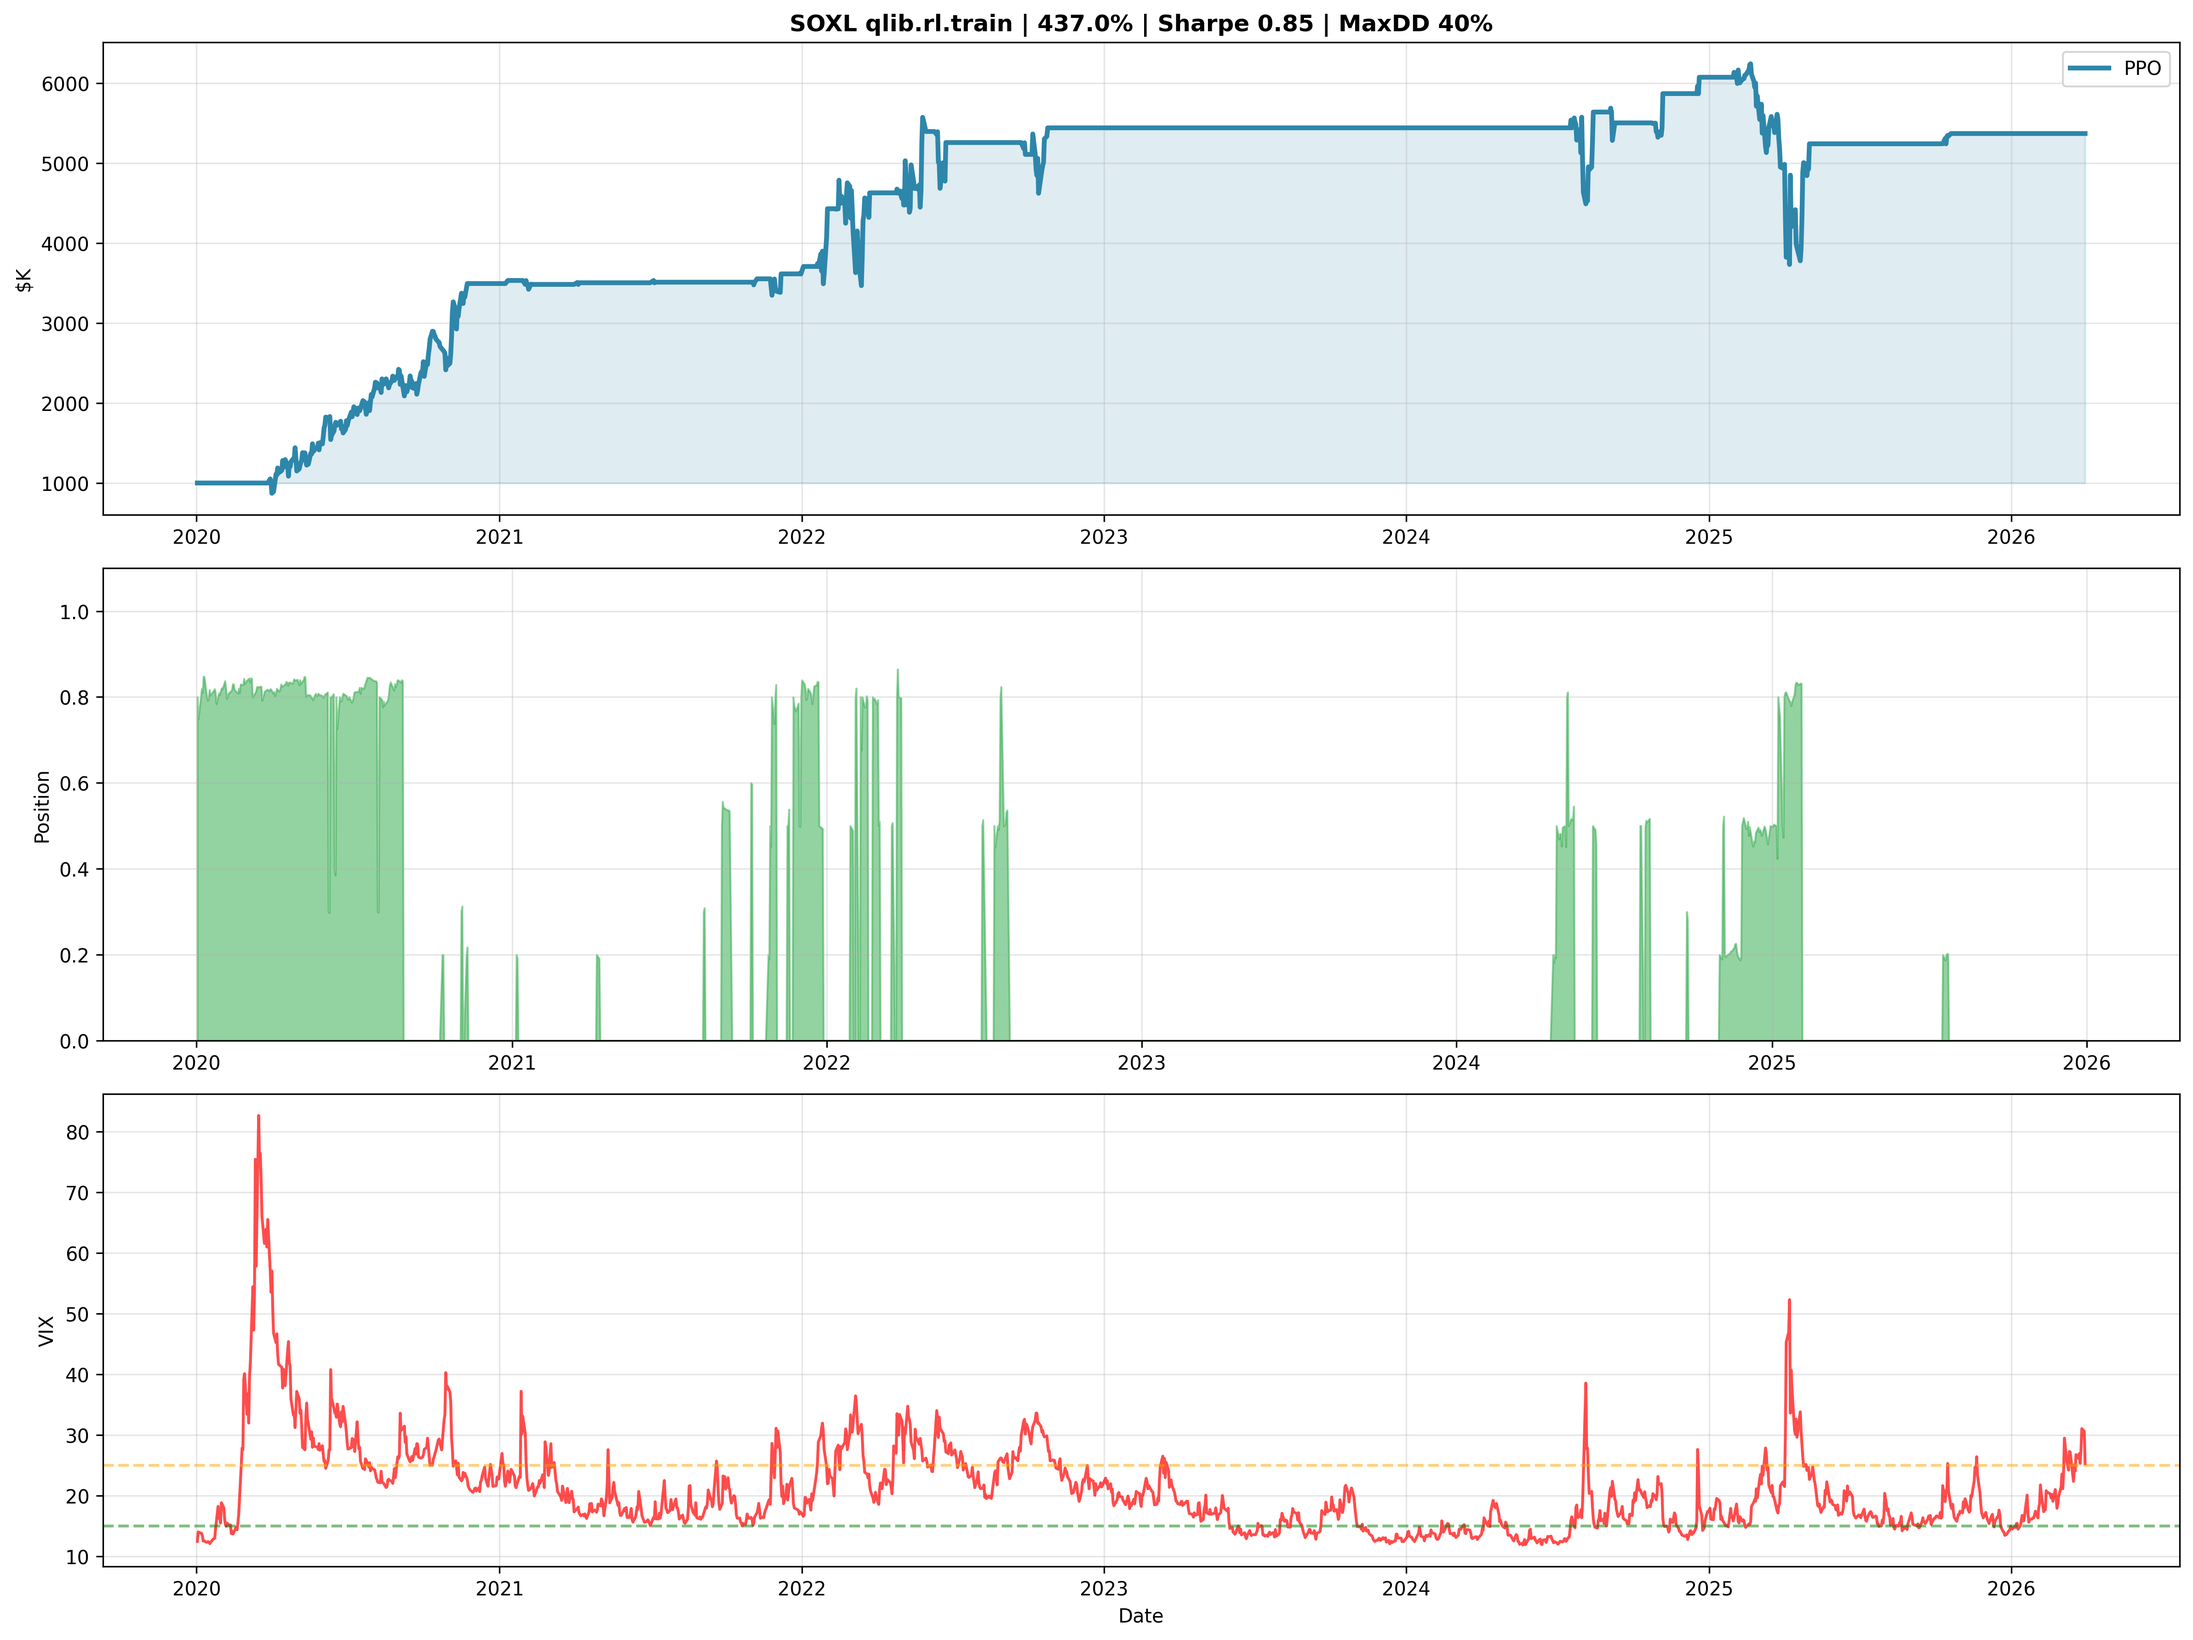
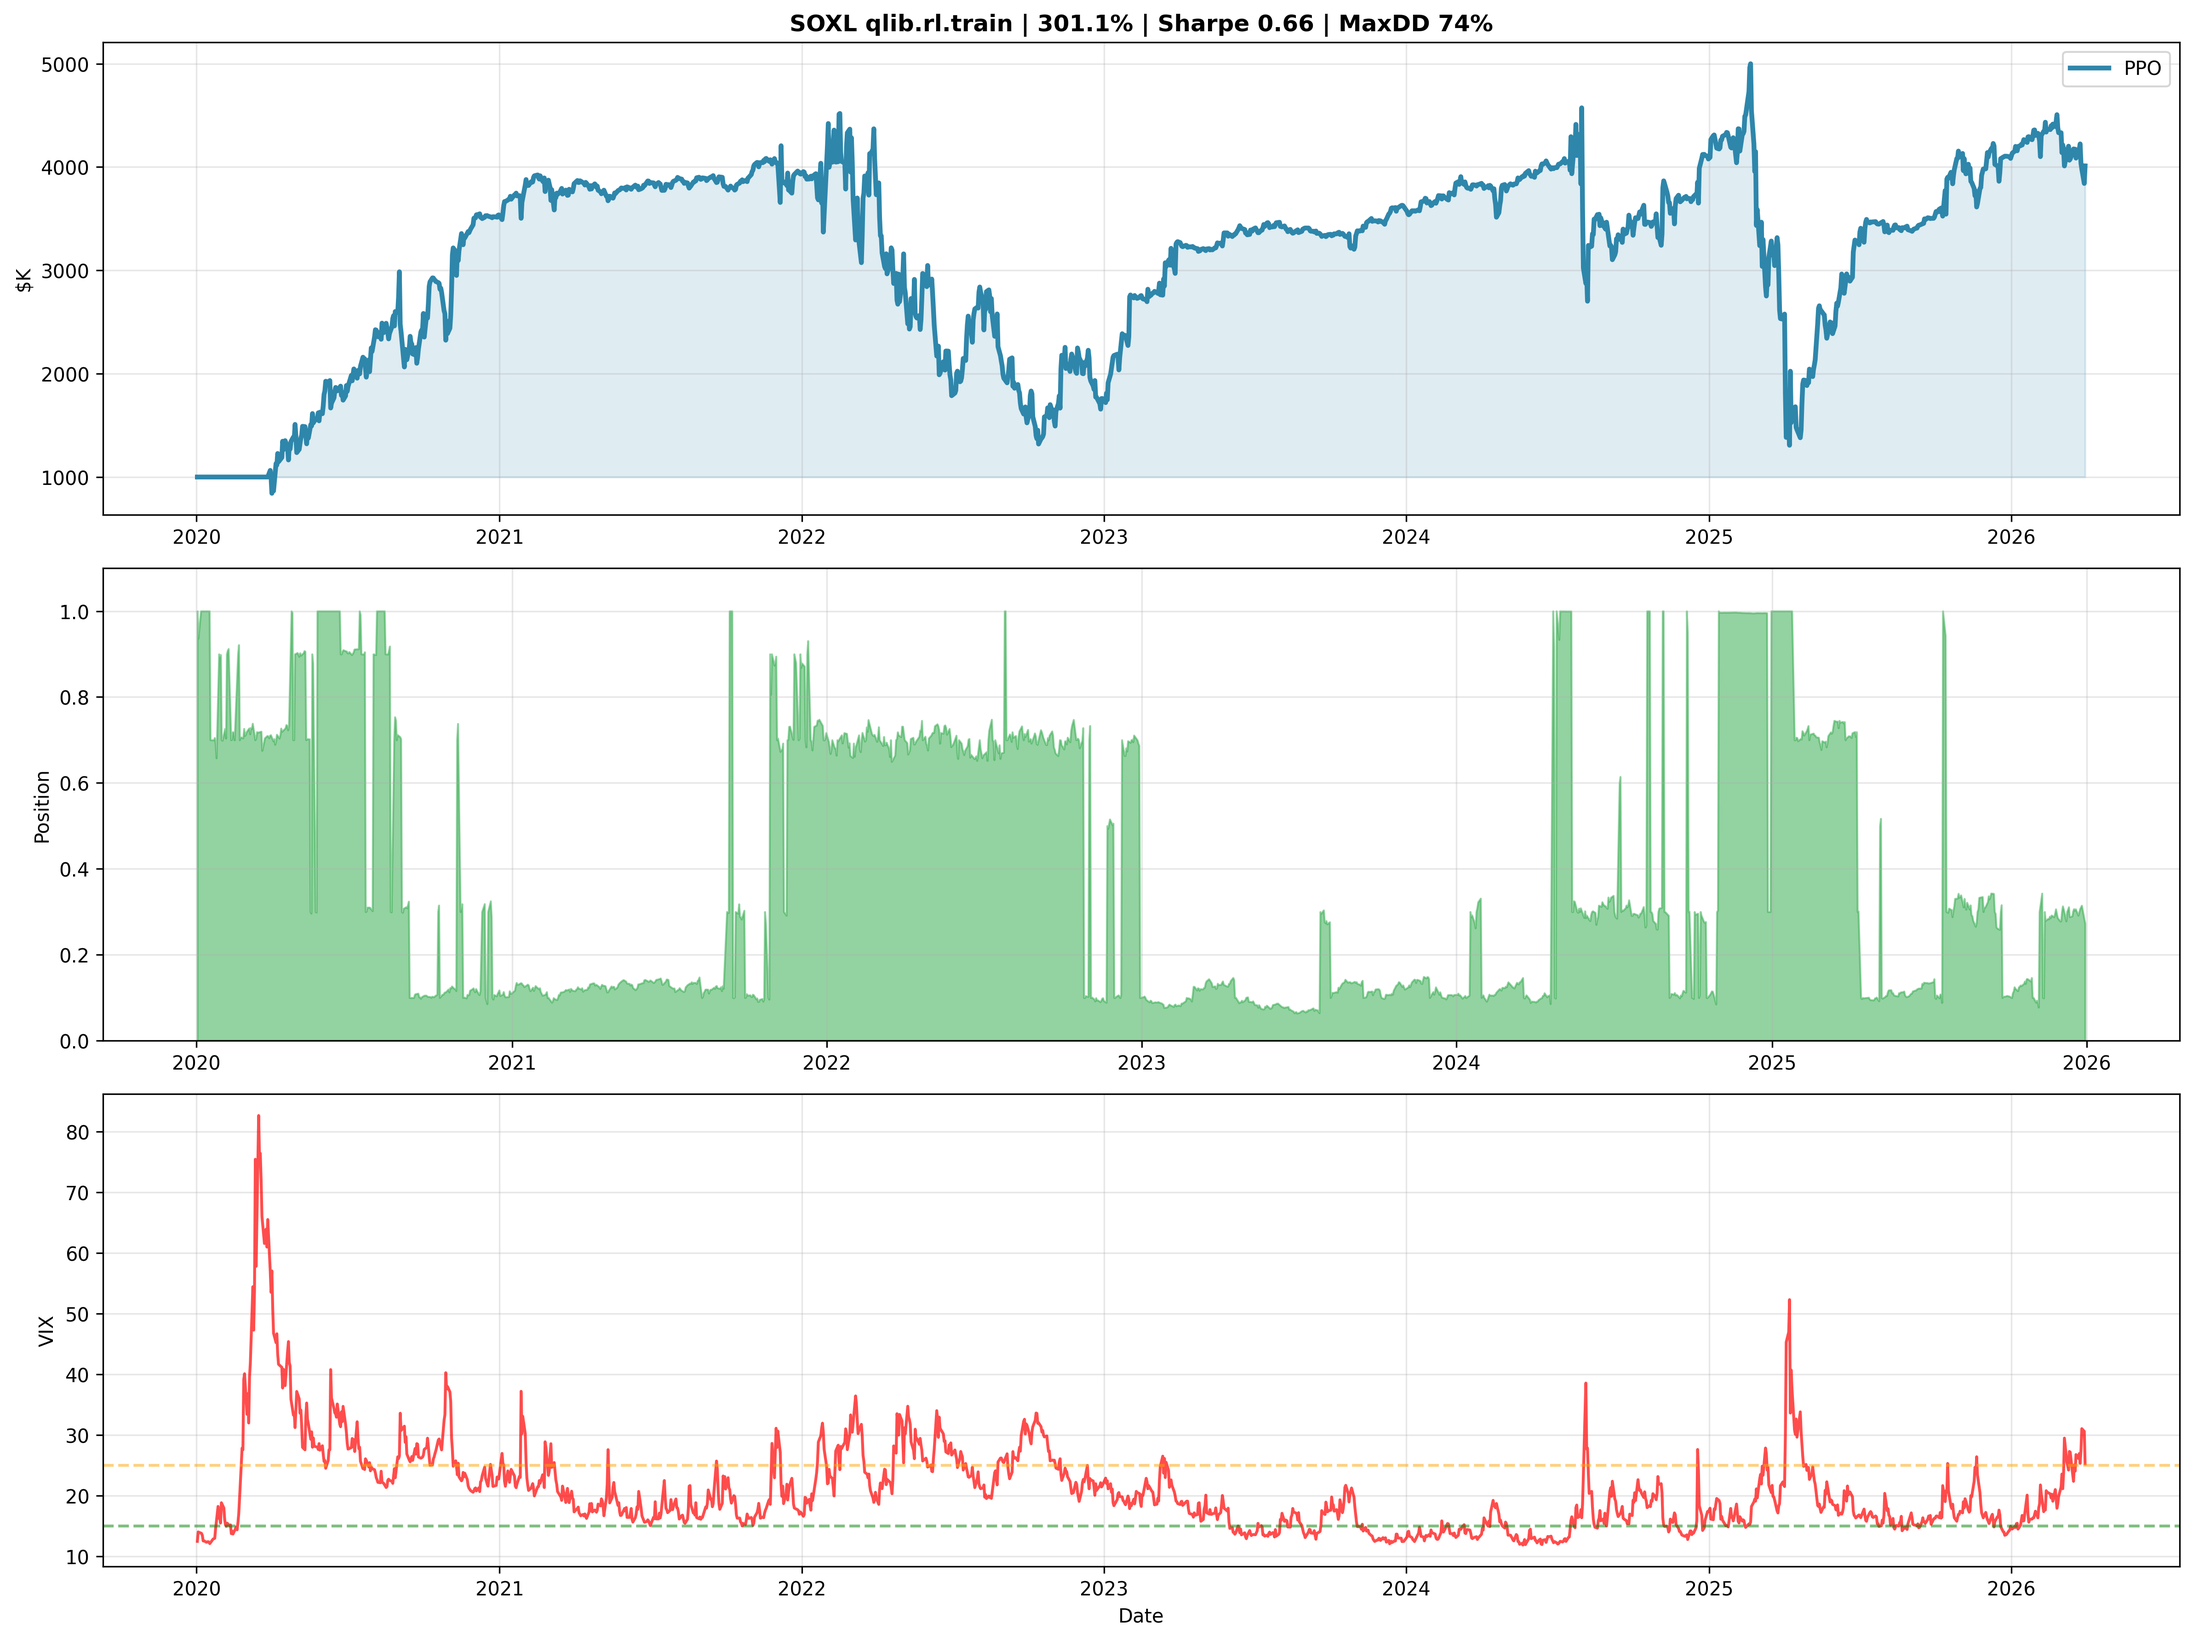
feat: qlib.rl.train no-fallback PPO 301% sharpe 0.66

Changed region(s): [[0.0625, 0.3733, 0.9685, 0.6533], [0.0937, 0.0311, 0.9685, 0.3111]]

diff --git a/soxl_qlib_strategy.py b/soxl_qlib_strategy.py
@@ -317,7 +317,7 @@ qlib_train(
     vessel_kwargs={'episode_per_iter': 10,
                         'update_kwargs': {'batch_size': 64, 'repeat': 10}},
     trainer_kwargs={'finite_env_type': 'dummy', 'concurrency': 1,
-                    'max_iters': 200},
+                    'max_iters': 500},
 )
 print("    ✅ qlib.rl.train() 完成！")
 
